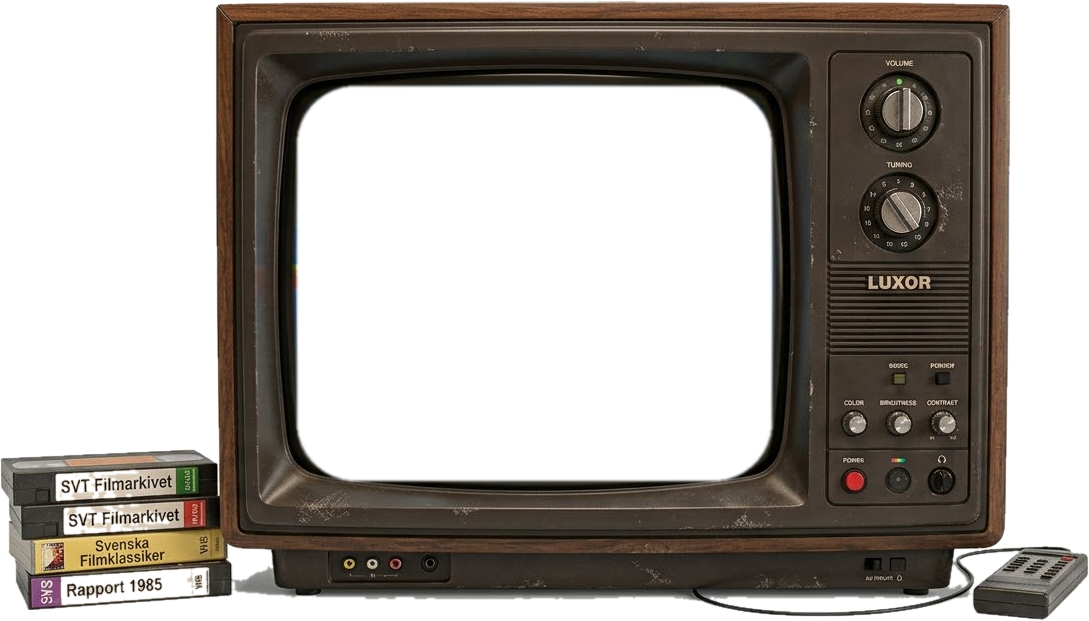
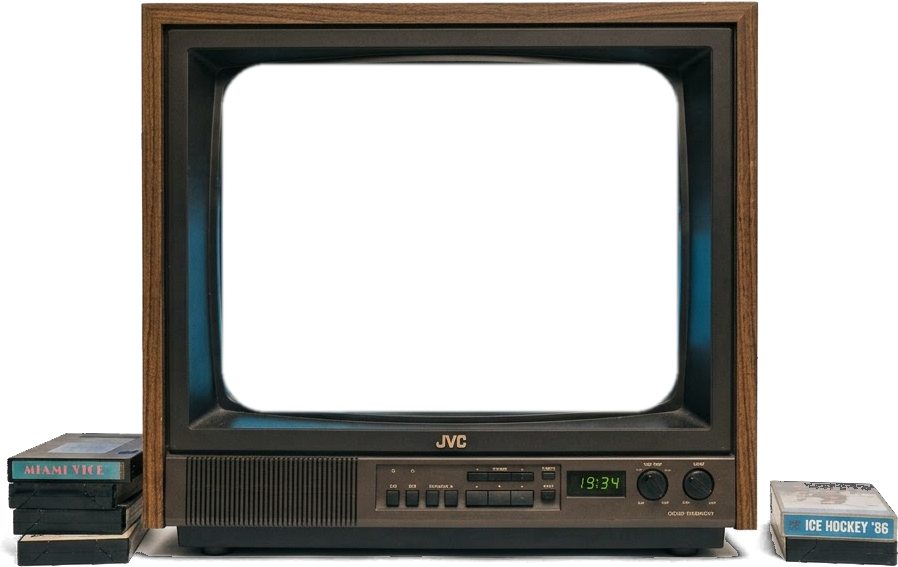
Rock-TV: ny TV-bild (JVC med träram) med urklippt skärm
Claude-Session: https://claude.ai/code/session_01VFJnqWuWodgw8iS4f9wBWk

diff --git a/medlem/party-tv.html b/medlem/party-tv.html
@@ -95,7 +95,7 @@
     <p class="party-sub">Slumpade hårdrocksvideor dygnet runt. Vrid på kanalratten för nästa video.</p>
 
     <div class="tv-stage">
-      <div class="tv-photo" id="tvPhoto" hidden><img id="tvImg" alt="TV"><button type="button" class="hot builtin" id="hotTune" title="Vrid – nästa kanal" aria-label="Nästa kanal" style="left:79.06%;top:27.2%;width:7.35%;height:13.5%"></button><button type="button" class="hot builtin" id="hotPower" title="Ström" aria-label="Ström på/av" style="left:76.2%;top:73.7%;width:4.2%;height:7.4%"></button><button type="button" class="hot builtin" id="hotVol" title="Ljud av/på" aria-label="Ljud av/på" style="left:79.06%;top:10.3%;width:7.35%;height:13.5%"></button></div>
+      <div class="tv-photo" id="tvPhoto" hidden><img id="tvImg" alt="TV"><button type="button" class="hot builtin" id="hotTune" title="Vrid – nästa kanal" aria-label="Nästa kanal" style="left:75.6%;top:81.9%;width:4.2%;height:6.6%"></button><button type="button" class="hot builtin" id="hotPower" title="Ström" aria-label="Ström på/av" style="left:42.3%;top:85.4%;width:2.9%;height:4.4%;border-radius:0.2rem"></button><button type="button" class="hot builtin" id="hotVol" title="Ljud av/på" aria-label="Ljud av/på" style="left:70.4%;top:81.9%;width:4.2%;height:6.6%"></button></div>
       <div class="tv" id="tvDrawn">
         <div class="ant"><i></i></div>
         <div class="cabinet">
@@ -315,7 +315,7 @@ document.addEventListener('keydown', e => { if (e.key === 'ArrowRight' || e.key 
 const FRAME_DIR = 'party/tv-frame', BUCKET = 'heavy-voices-stems';
 let frame = null;   // { img (sökväg), l, t, w, h, r, behind }
 // Standard: fotot av Luxor-TV:n (images/party/tv.webp) med urklippt, genomskinlig skärm
-const BUILTIN_FRAME = { builtin: true, img: '/images/party/tv.webp', l: 26.72, t: 13.2, w: 44.63, h: 64.73, r: 9, behind: true };
+const BUILTIN_FRAME = { builtin: true, img: '/images/party/tv.webp', l: 24.05, t: 10.23, w: 52.0, h: 63.32, r: 10, behind: true };
 const DEF_FRAME = { l: 12, t: 14, w: 58, h: 62, r: 8, behind: false };
 async function signed(path) { const { data } = await supabaseClient.storage.from(BUCKET).createSignedUrl(path, 3600 * 6); return data ? data.signedUrl : null; }
 function applyFrame(imgUrl) {
